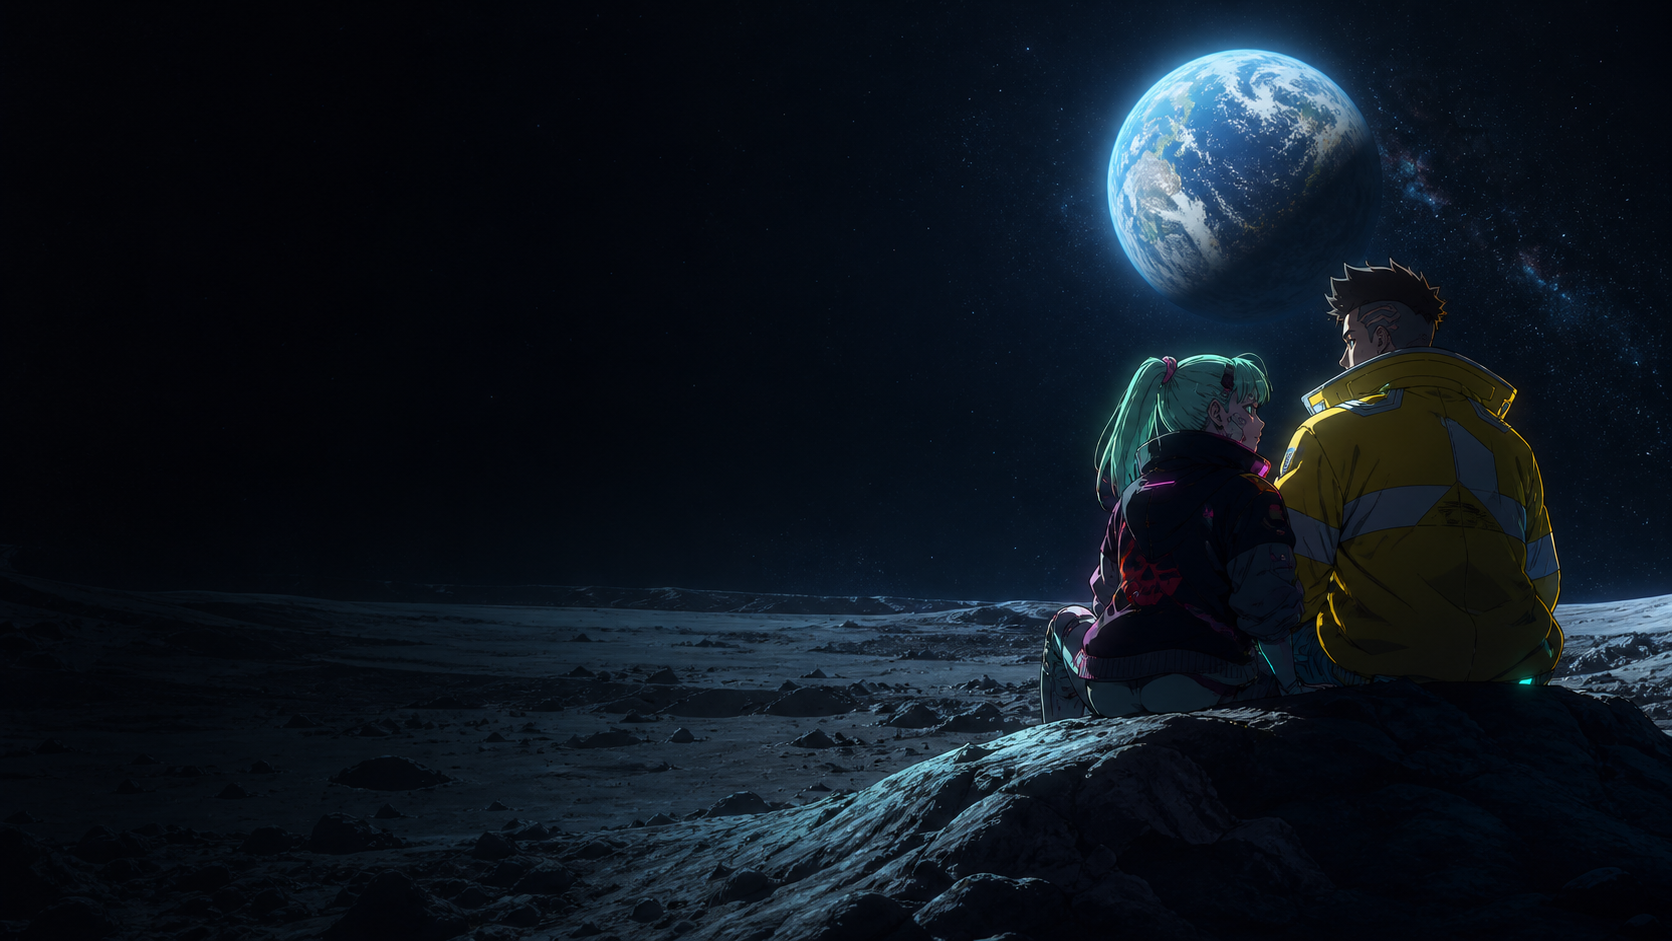
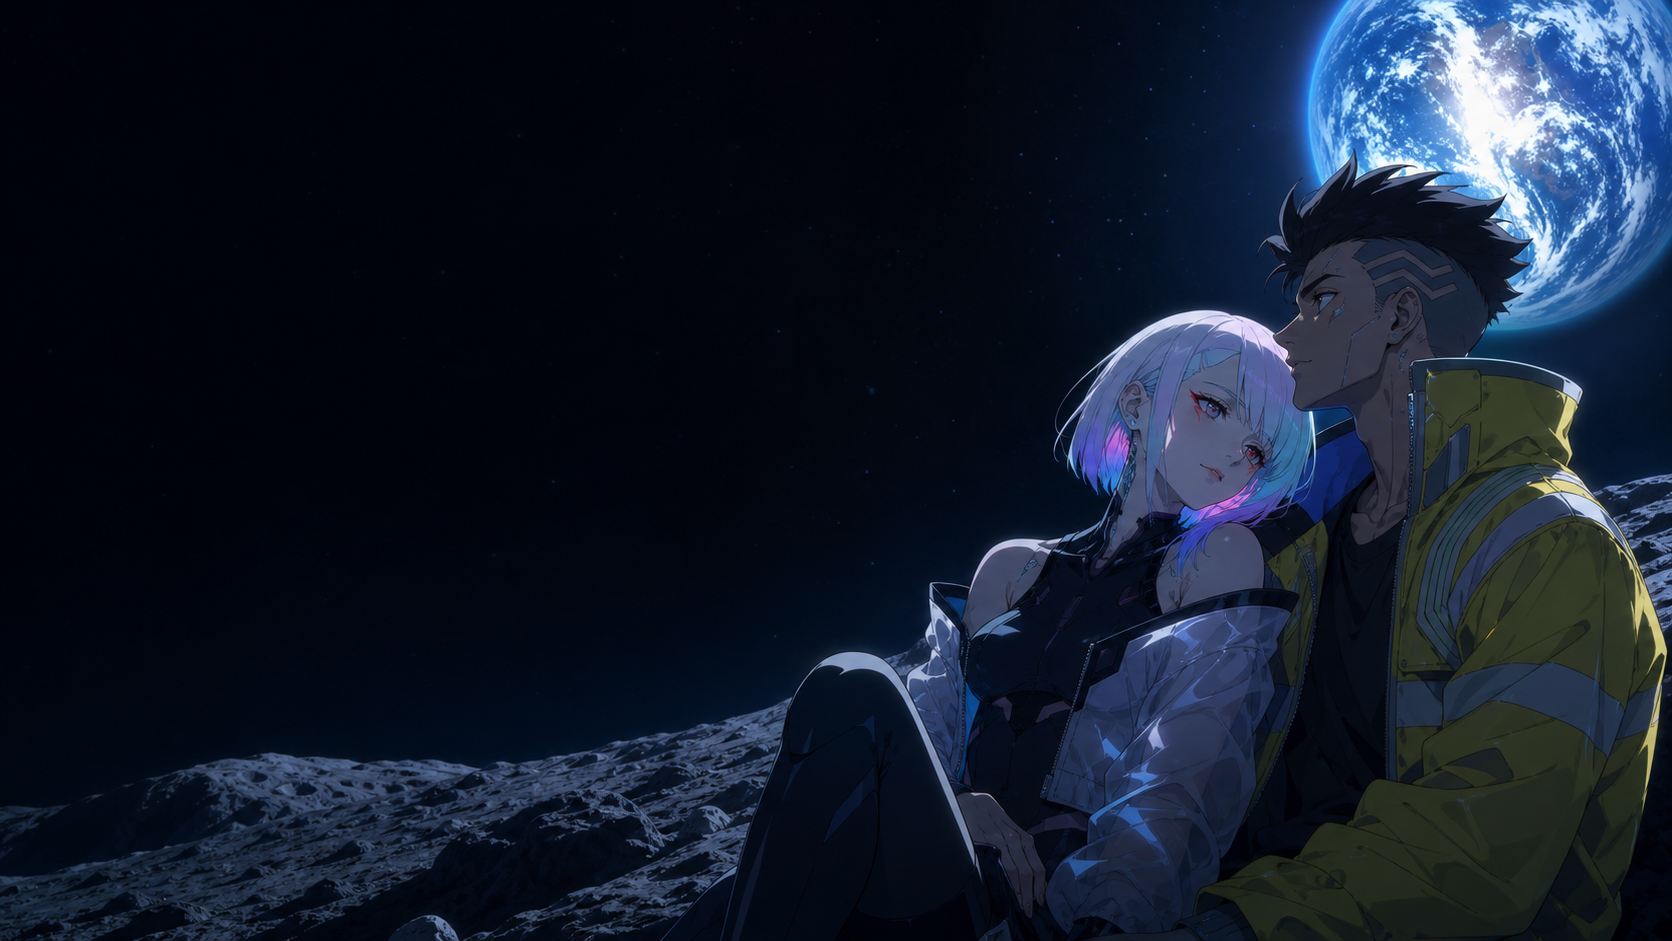
fix: depict Lucy in Chrome Moon artwork

diff --git a/assets/wallpapers/PROMPTS.md b/assets/wallpapers/PROMPTS.md
@@ -36,6 +36,6 @@ An original unofficial fan-art wallpaper featuring Male Rover from *Wuthering Wa
 
 ### Chrome Moon 1.0.0
 
-An original alternate-universe, unofficial fan-art wallpaper featuring Rebecca and David from *Cyberpunk: Edgerunners* seated together on a lunar ridge beneath Earthlight. Polished cinematic anime key art in near-black navy, cyan, acid yellow, hot magenta, and mint; both characters and Earth remain on the right while the left 58% is dark negative space. The composition does not recreate an existing episode frame.
+An original alternate-universe, unofficial fan-art wallpaper featuring Lucy and David from *Cyberpunk: Edgerunners* seated together on a lunar ridge beneath Earthlight. Lucy follows her official character design: an asymmetrical white bob with pastel pink, lavender, and cyan underlayers, sharp red eye makeup, a black bodysuit, and a translucent white tech jacket. Polished cinematic anime key art in near-black navy, cyan, acid yellow, magenta, and lavender; both characters and Earth remain on the right while the left 58% is dark negative space. The composition does not recreate an existing episode frame or key visual.
 
 Generated on 2026-08-07. Source outputs were copied into `assets/wallpapers/` and the generated terminal previews live in `docs/previews/`.

diff --git a/README.md b/README.md
@@ -125,7 +125,7 @@ Special Editions live in their own section at the bottom of the Control Center. 
     <td width="50%" valign="top">
       <img src="docs/previews/chrome-moon.png" alt="Chrome Moon terminal preview" />
       <h3>Chrome Moon <code>v1.0.0</code></h3>
-      <p>An unofficial <em>Cyberpunk: Edgerunners</em> fan edition: Rebecca and David together on a lunar ridge beneath Earthlight.</p>
+      <p>An unofficial <em>Cyberpunk: Edgerunners</em> fan edition: Lucy and David together on a lunar ridge beneath Earthlight.</p>
     </td>
   </tr>
 </table>

diff --git a/CHANGELOG.md b/CHANGELOG.md
@@ -22,7 +22,7 @@ Termdeck and its themes follow [Semantic Versioning](https://semver.org/). Appli
 
 | Theme | Version | Category | Release notes |
 | --- | --- | --- | --- |
-| Chrome Moon | 1.0.0 | Special | Initial *Cyberpunk: Edgerunners* fan-edition palette and Rebecca-and-David lunar wallpaper |
+| Chrome Moon | 1.0.0 | Special | Initial *Cyberpunk: Edgerunners* fan-edition palette and Lucy-and-David lunar wallpaper |
 
 ## [0.3.0] - 2026-08-07
 
